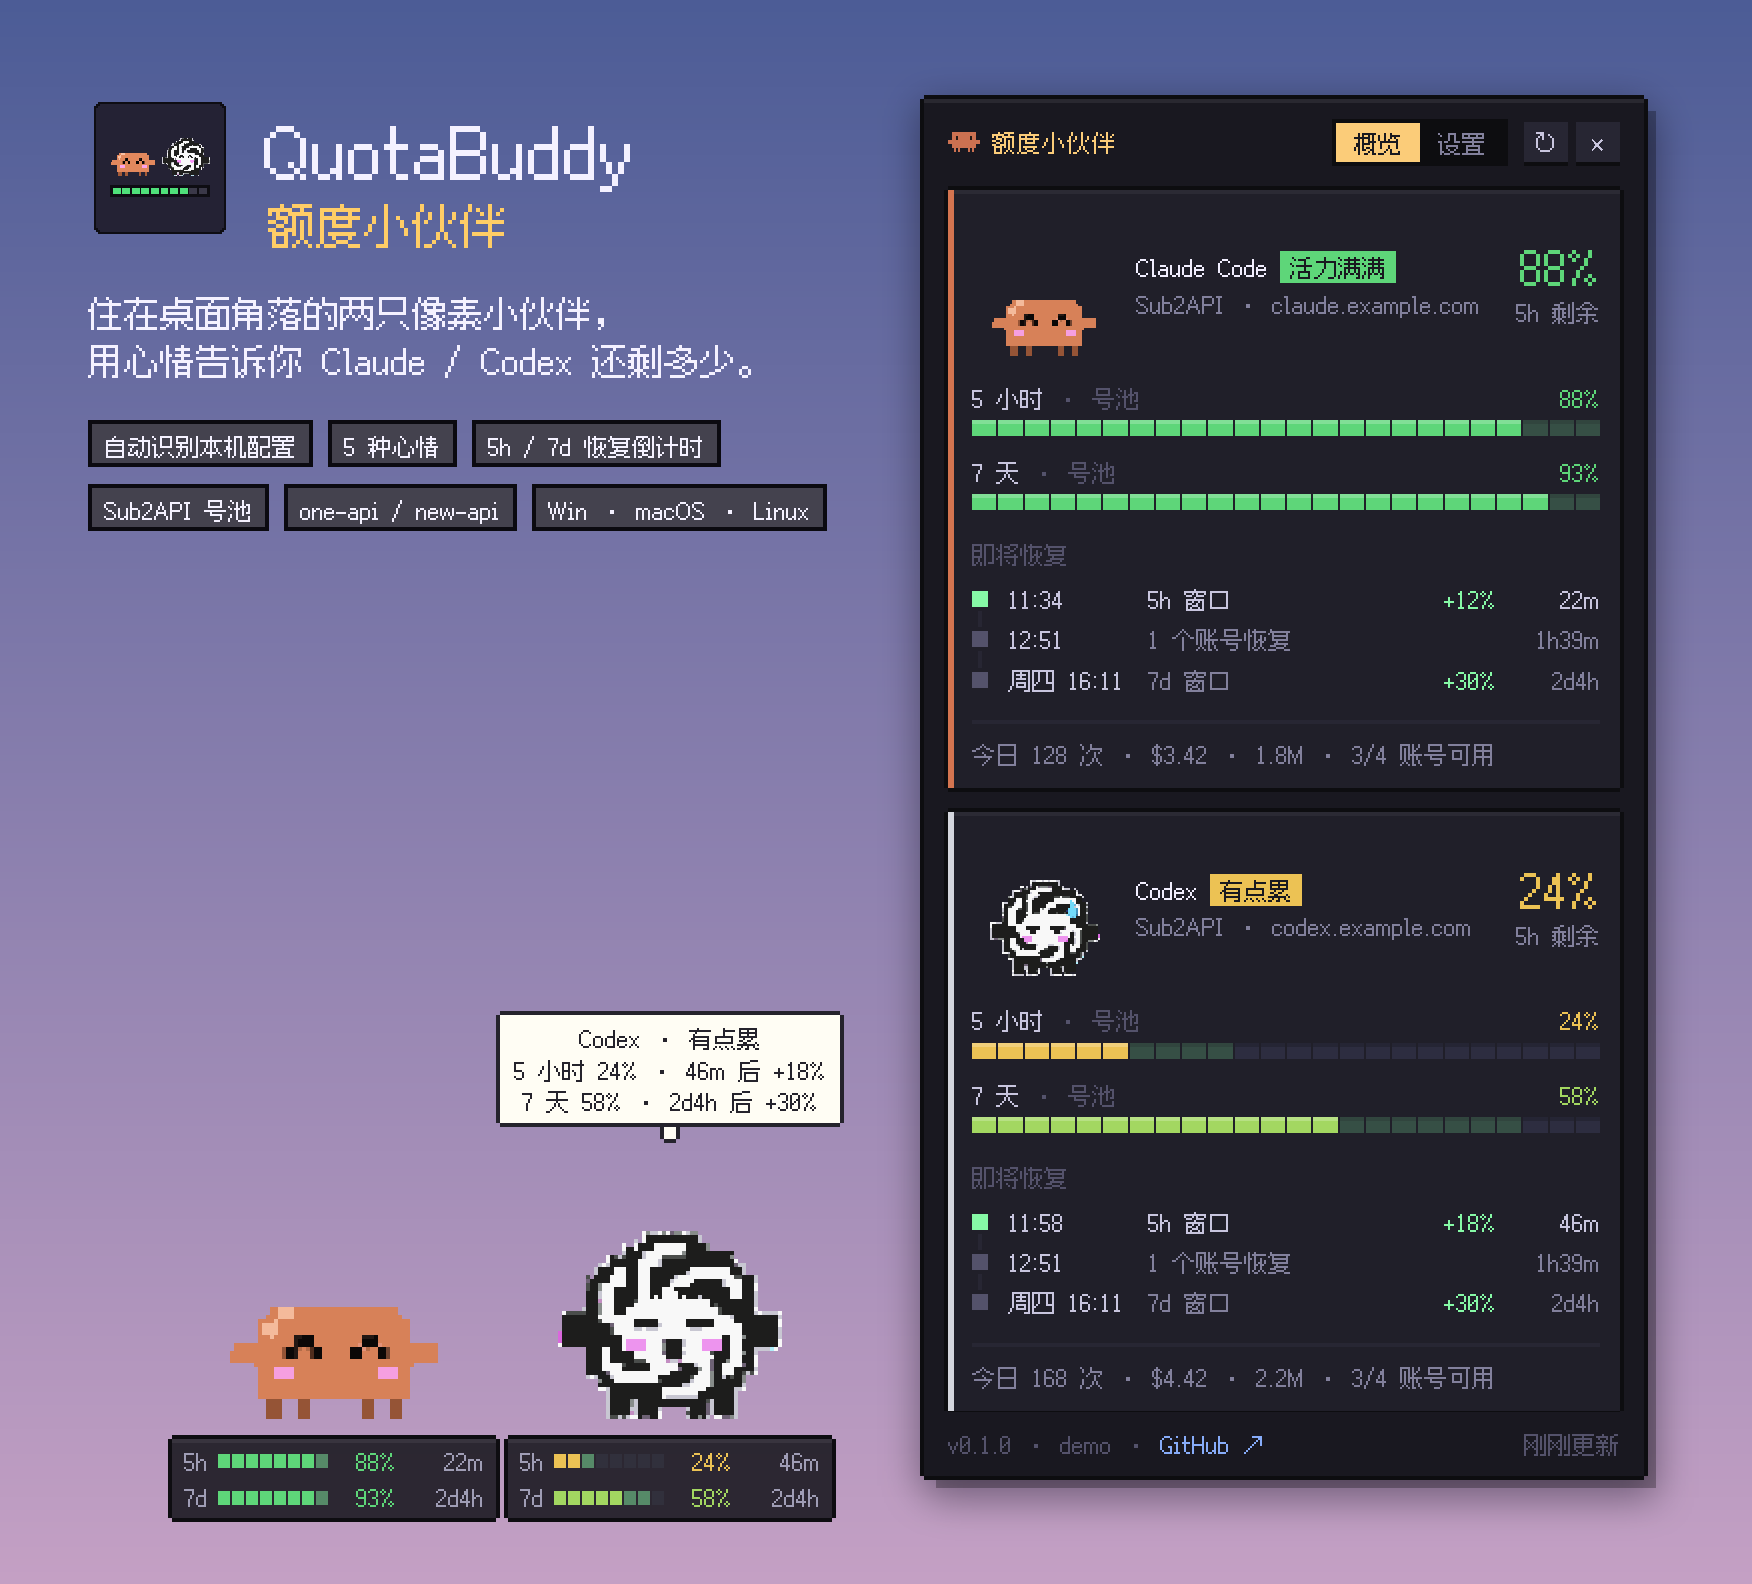
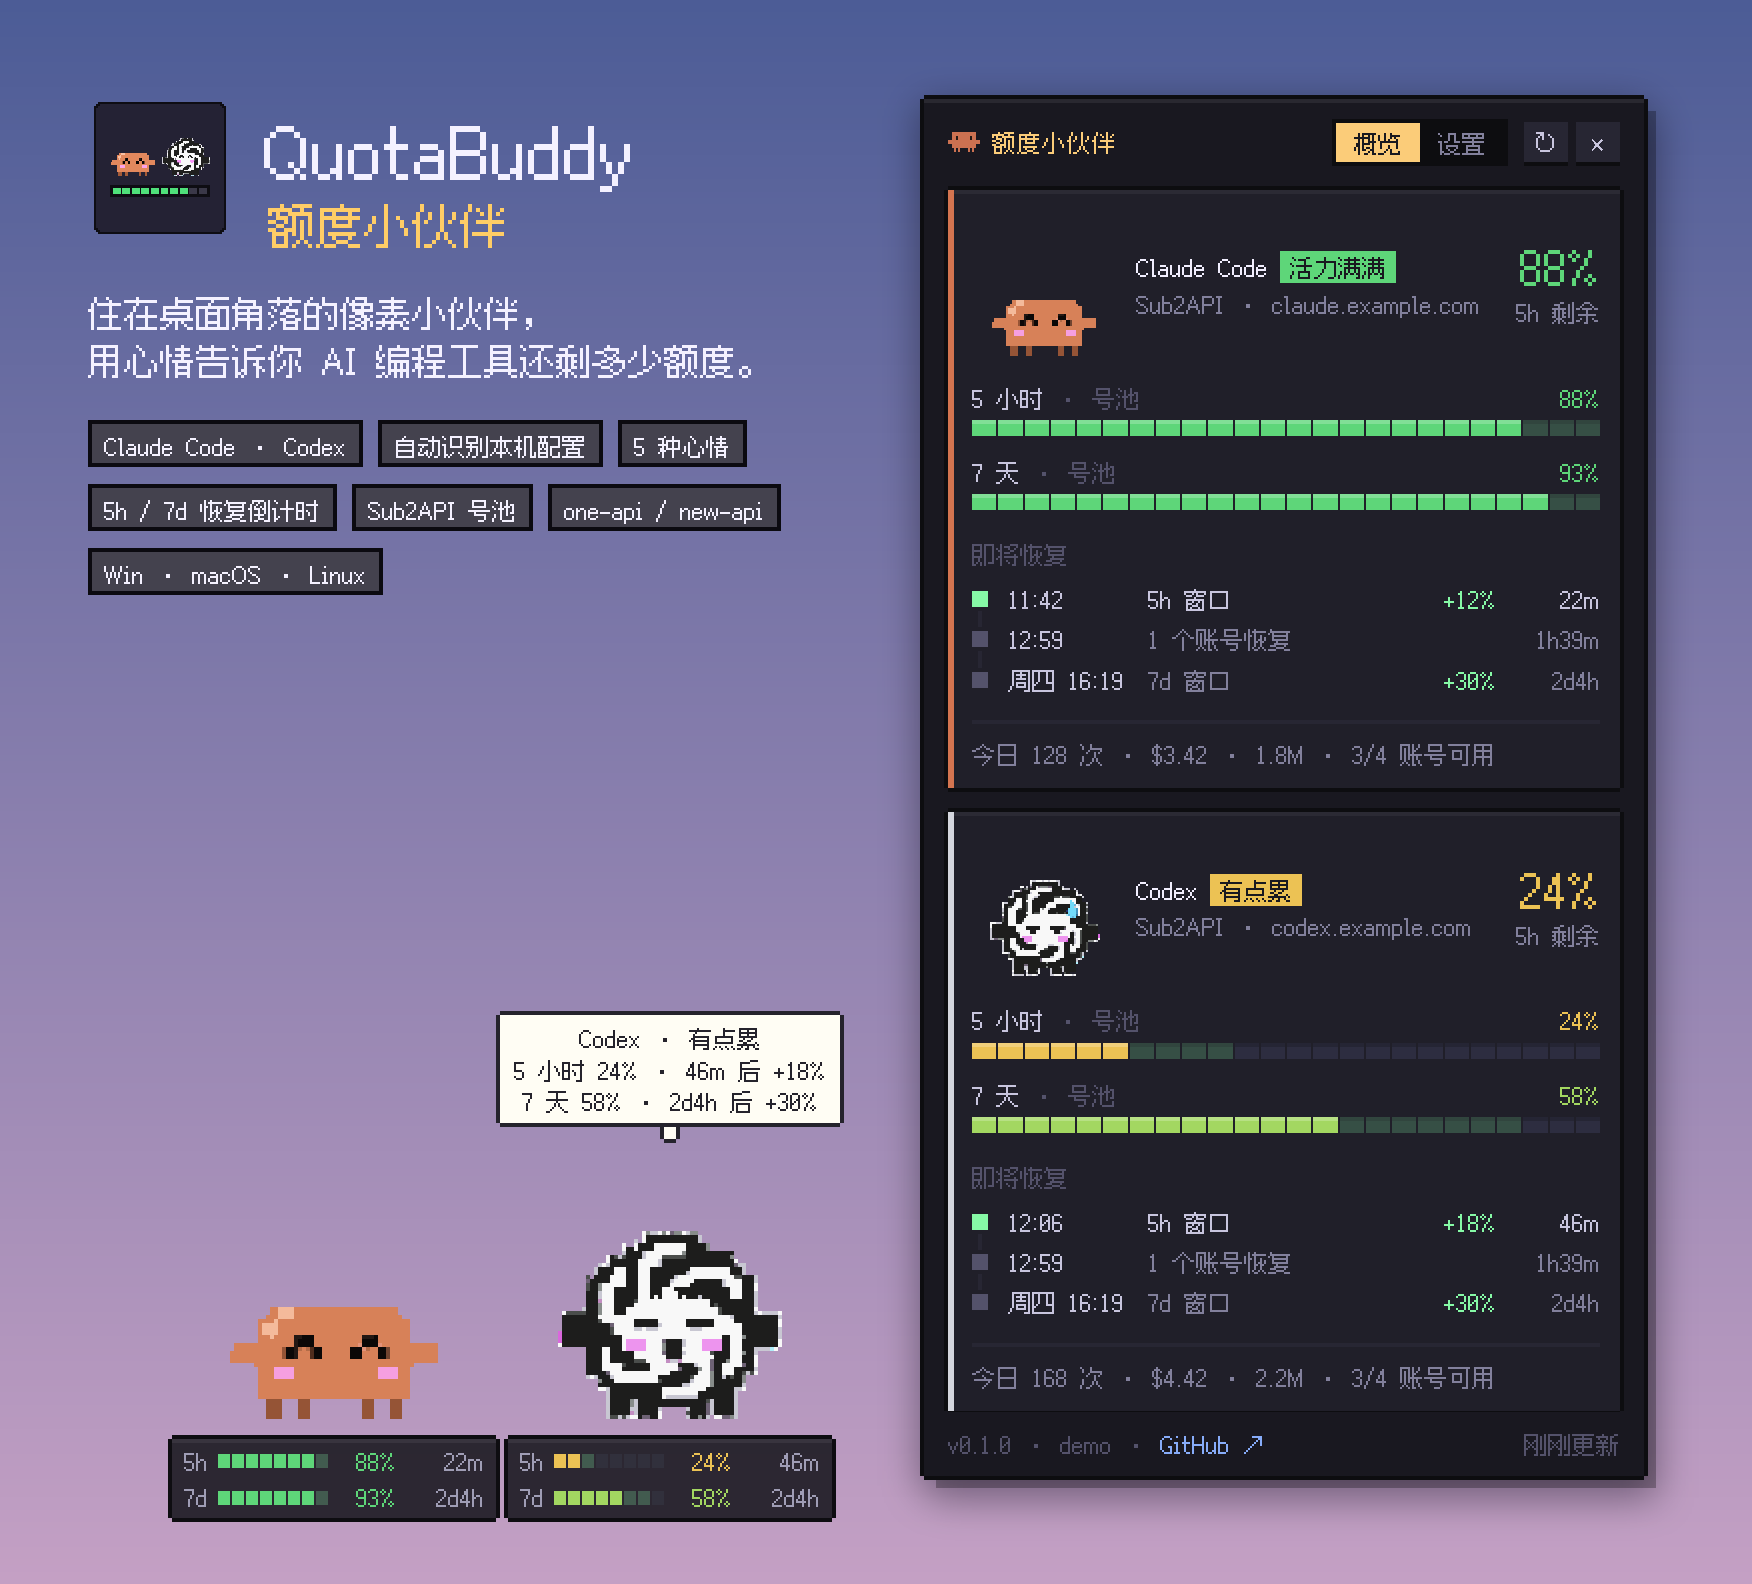
README: don't tie the buddies to a count of two

Changed region(s): [[0.0308, 0.1856, 0.4932, 0.4021], [0.339, 0.928, 0.3699, 0.959]]

diff --git a/art/tools/make_screenshots.py b/art/tools/make_screenshots.py
@@ -1,7 +1,7 @@
 #!/usr/bin/env python3
 """Renders the README screenshots from real app captures (demo data, throwaway profile).
 
-  docs/hero.png    title, the panel and both buddies on a desktop
+  docs/hero.png    title, the panel and the buddies on a desktop
   docs/meters.png  what the meter under a buddy shows for each "桌面额度" choice, calm and tight
   docs/panel.png   the panel when quota runs out, and its settings
 
@@ -94,9 +94,9 @@ def hero(main: Path) -> None:
     img.alpha_composite(icon, (m, m + 8))
     d.text((m + 176, m + 14), "QuotaBuddy", font=font(72), fill=INK)
     d.text((m + 180, m + 104), "额度小伙伴", font=font(48), fill=GOLD)
-    d.text((m, m + 200), "住在桌面角落的两只像素小伙伴，", font=font(36), fill=INK)
-    d.text((m, m + 248), "用心情告诉你 Claude / Codex 还剩多少。", font=font(36), fill=INK)
-    chips = ["自动识别本机配置", "5 种心情", "5h / 7d 恢复倒计时", "Sub2API 号池", "one-api / new-api", "Win · macOS · Linux"]
+    d.text((m, m + 200), "住在桌面角落的像素小伙伴，", font=font(36), fill=INK)
+    d.text((m, m + 248), "用心情告诉你 AI 编程工具还剩多少额度。", font=font(36), fill=INK)
+    chips = ["Claude Code · Codex", "自动识别本机配置", "5 种心情", "5h / 7d 恢复倒计时", "Sub2API 号池", "one-api / new-api", "Win · macOS · Linux"]
     x, y = m, m + 332
     for chip in chips:
         tw = int(d.textlength(chip, font=font(24)))

diff --git a/README.md b/README.md
@@ -1,17 +1,17 @@
 # QuotaBuddy · 额度小伙伴
 
 <p align="center">
-  <img src="docs/hero.png" width="876" alt="QuotaBuddy：桌面上的两只像素小伙伴和额度面板">
+  <img src="docs/hero.png" width="876" alt="QuotaBuddy：桌面上的像素小伙伴和额度面板">
 </p>
 
-住在桌面角落的两只像素小伙伴：一只 Claude（Clawd），一只 GPT。它们会自动读取你本机的 **Claude Code** 和 **Codex** 配置，查询上游还剩多少额度，然后用心情表现出来：额度充足时蹦蹦跳跳，快用完时冒汗发慌，用光了就趴在地上睡觉，等下一次刷新。
+住在桌面角落的像素小伙伴，每个 AI 编程工具对应一只，目前有 **Claude Code** 的 Clawd 和 **Codex** 的 GPT。它们会自动读取你本机的配置，查询上游还剩多少额度，然后用心情表现出来：额度充足时蹦蹦跳跳，快用完时冒汗发慌，用光了就趴在地上睡觉，等下一次刷新。
 
 > English summary: pixel desktop pets that read your local Claude Code / Codex configuration, query the upstream quota (official subscriptions, Sub2API, one-api/new-api relays) and show it as moods plus refill countdowns. Windows, macOS and Linux.
 
 ## 5 种心情
 
 <p align="center">
-  <img src="docs/showcase.gif" width="814" alt="两只小伙伴的 5 种心情动画">
+  <img src="docs/showcase.gif" width="814" alt="小伙伴的 5 种心情动画">
 </p>
 
 心情由最紧张的那个额度窗口的剩余比例决定：
